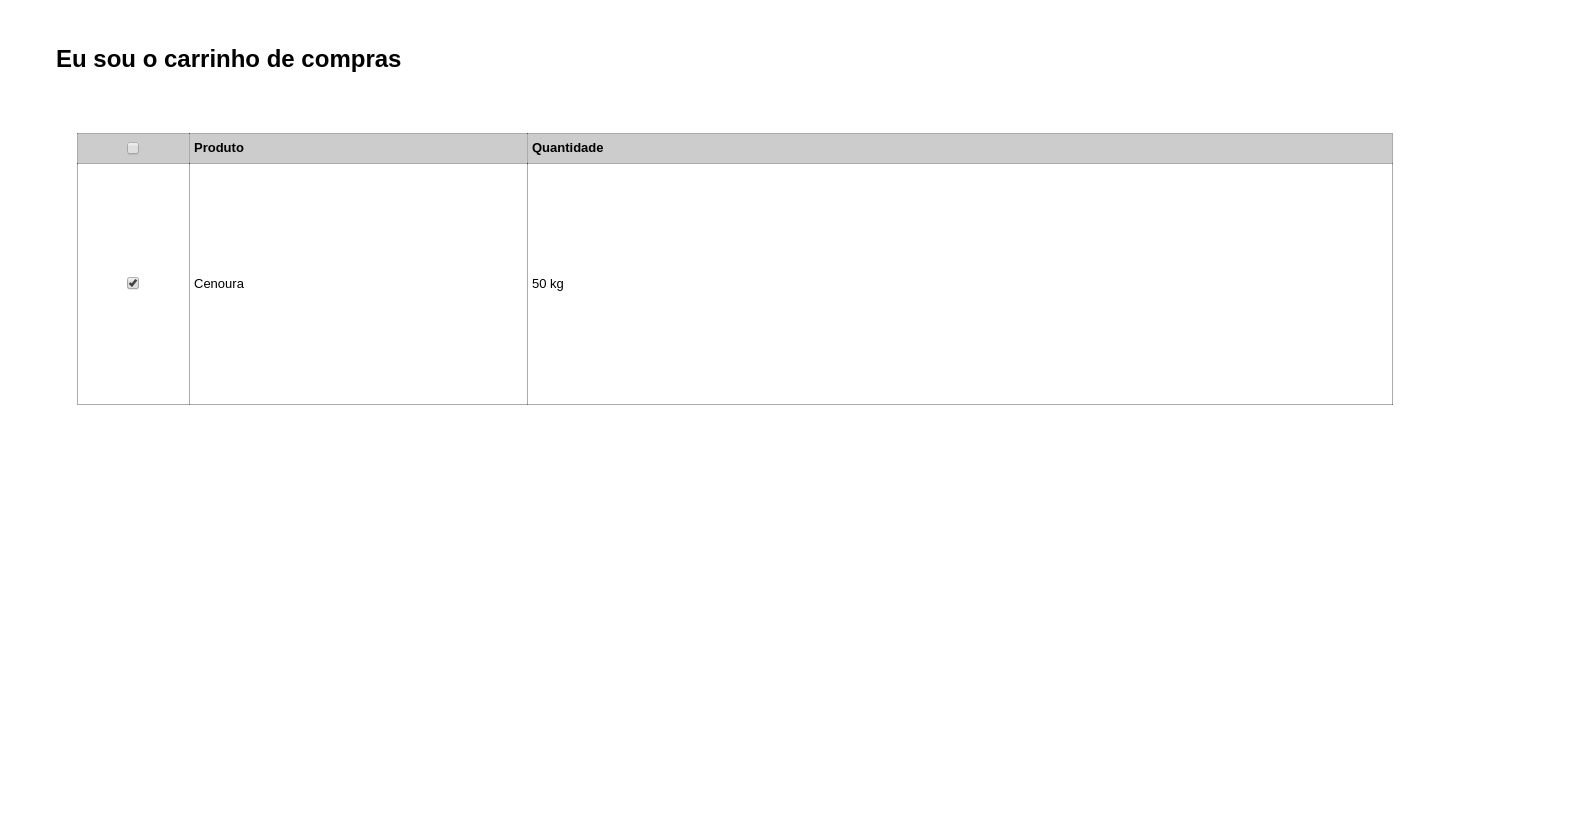
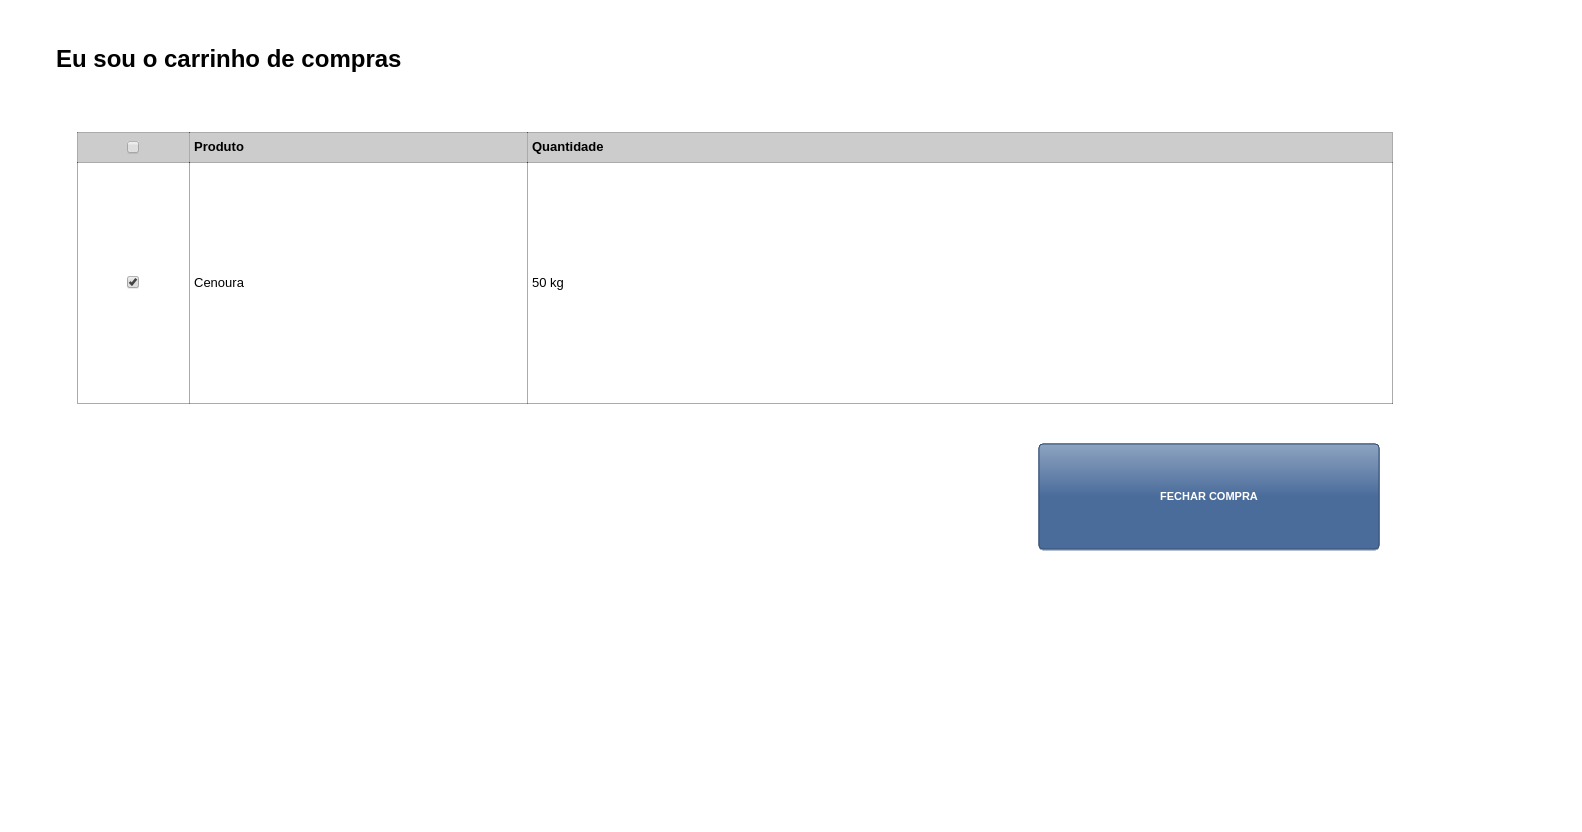
add prototypes

diff --git a/prototypes/cart/index.html b/prototypes/cart/index.html
@@ -1,2 +1,2 @@
 <html xmlns="http://www.w3.org/1999/xhtml" xmlns:p="http://www.evolus.vn/Namespace/Pencil" xmlns:html="http://www.w3.org/1999/xhtml"><head><meta http-equiv="Content-Type" content="text/html; charset=UTF-8" />
-<title></title><link rel="stylesheet" href="Resources/SampleStyle.css" /></head><body><h1 id="documentTitle"></h1><p id="documentMetadata">Exported at: Tue Mar 02 2021 19:59:44 GMT-0300 (Horário Padrão de Brasília)</p><div class="Page" id="showproduct_page"><h2>ShowProduct</h2><div class="ImageContainer"><img src="pages/showproduct.png" width="NaN" height="NaN" usemap="#map_showproduct" /></div><map name="map_showproduct"><area shape="rect" coords="1286,165,1479,204" href="#shopping_cart_page" title="Go to page 'Shopping Cart'" /></map></div><div class="Page" id="shopping_cart_page"><h2>Shopping Cart</h2><div class="ImageContainer"><img src="pages/shopping_cart.png" width="NaN" height="NaN" usemap="#map_shopping_cart" /></div><map name="map_shopping_cart"></map></div></body></html>
+<title>cart</title><link rel="stylesheet" href="Resources/SampleStyle.css" /></head><body><h1 id="documentTitle">cart</h1><p id="documentMetadata">Exported at: Tue Mar 02 2021 20:17:42 GMT-0300 (Horário Padrão de Brasília)</p><div class="Page" id="showproduct_page"><h2>ShowProduct</h2><div class="ImageContainer"><img src="pages/showproduct.png" width="NaN" height="NaN" usemap="#map_showproduct" /></div><map name="map_showproduct"><area shape="rect" coords="1286,165,1479,204" href="#shopping_cart_page" title="Go to page 'Shopping Cart'" /><area shape="rect" coords="1286,165,1479,204" href="#shopping_cart_page" title="Go to page 'Shopping Cart'" /></map></div><div class="Page" id="shopping_cart_page"><h2>Shopping Cart</h2><div class="ImageContainer"><img src="pages/shopping_cart.png" width="NaN" height="NaN" usemap="#map_shopping_cart" /></div><map name="map_shopping_cart"><area shape="rect" coords="1039,444,1379,550" href="#cobranca_page" title="Go to page 'Cobranca'" /><area shape="rect" coords="1039,444,1379,550" href="#cobranca_page" title="Go to page 'Cobranca'" /></map></div><div class="Page" id="cobranca_page"><h2>Cobranca</h2><div class="ImageContainer"><img src="pages/cobranca.png" width="NaN" height="NaN" usemap="#map_cobranca" /></div><map name="map_cobranca"></map></div></body></html>
